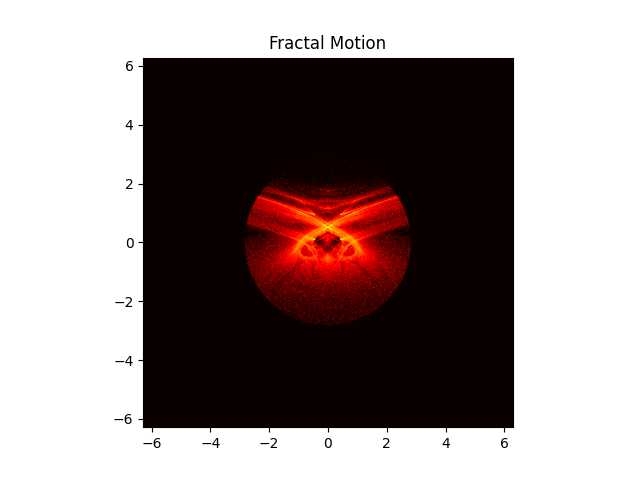
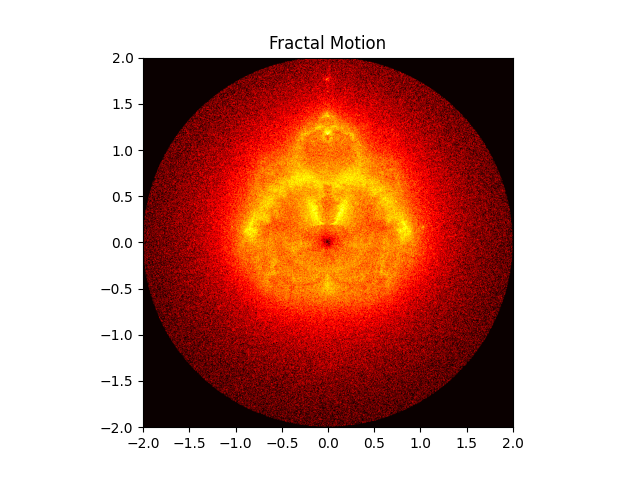
implement broader complex multiplication

diff --git a/main.py b/main.py
@@ -1,40 +1,60 @@
 import numpy as np
 import matplotlib.pyplot as plt
 
-radius = 8.0
+escape_radius_squared = 8.0
 points = 1000000
-iterations = 100
+iterations = 1000
 dimensions = (800, 800)
-x_limits = (-2 * np.pi, 2 * np.pi)
-y_limits = (-2 * np.pi, 2 * np.pi)
+x_limits = (-2.0, 2.0)
+y_limits = (-2.0, 2.0)
+
+I = np.array([
+    [ 1,  0],
+    [ 0,  1],
+])
+
+R = np.array([
+    [ 0,  1],
+    [ 1,  0],
+])
+
+B = np.array([
+    [ 0,  1],
+    [-1,  0],
+])
+
+G = np.array([
+    [ 1,  0],
+    [ 0, -1],
+])
 
 def generate():
     pixel_array = np.zeros(dimensions, dtype=int)
 
     for _ in range(points):
+        path = []
+
         c_angle = np.random.uniform(0, 2 * np.pi)
         c_radius = np.random.uniform(0, x_limits[1])
         
         cx = c_radius * np.cos(c_angle)
         cy = c_radius * np.sin(c_angle)
 
-        zx = cx
-        zy = cy
+        C = cx * I + cy * B
 
-        path = []
-        
+        z = C
+
         for _ in range(iterations):
-            zx = zx * zx - zy * zy + cx
-            zy = 2.0 * zx * zy + cy
+            z = z @ z + C
 
-            magnitude_squared = zx * zx + zy * zy
+            magnitude_squared = np.sum(np.square(z))
 
-            if magnitude_squared < radius:
-                path.append((zx, zy))
+            if magnitude_squared < escape_radius_squared:
+                path.append(z)
             else:
                 for point in path:
-                    cell_x = int((point[0] - x_limits[0]) / (x_limits[1] - x_limits[0]) * (dimensions[0] - 1))
-                    cell_y = int((point[1] - y_limits[0]) / (y_limits[1] - y_limits[0]) * (dimensions[1] - 1))
+                    cell_x = int((point[0, 0] - x_limits[0]) / (x_limits[1] - x_limits[0]) * (dimensions[0] - 1))
+                    cell_y = int((point[0, 1] - y_limits[0]) / (y_limits[1] - y_limits[0]) * (dimensions[1] - 1))
 
                     if cell_x >= 0 and cell_x <= dimensions[0] - 1 and cell_y >= 0 and cell_y <= dimensions[1] - 1:
                         pixel_array[cell_x, cell_y] += 1
